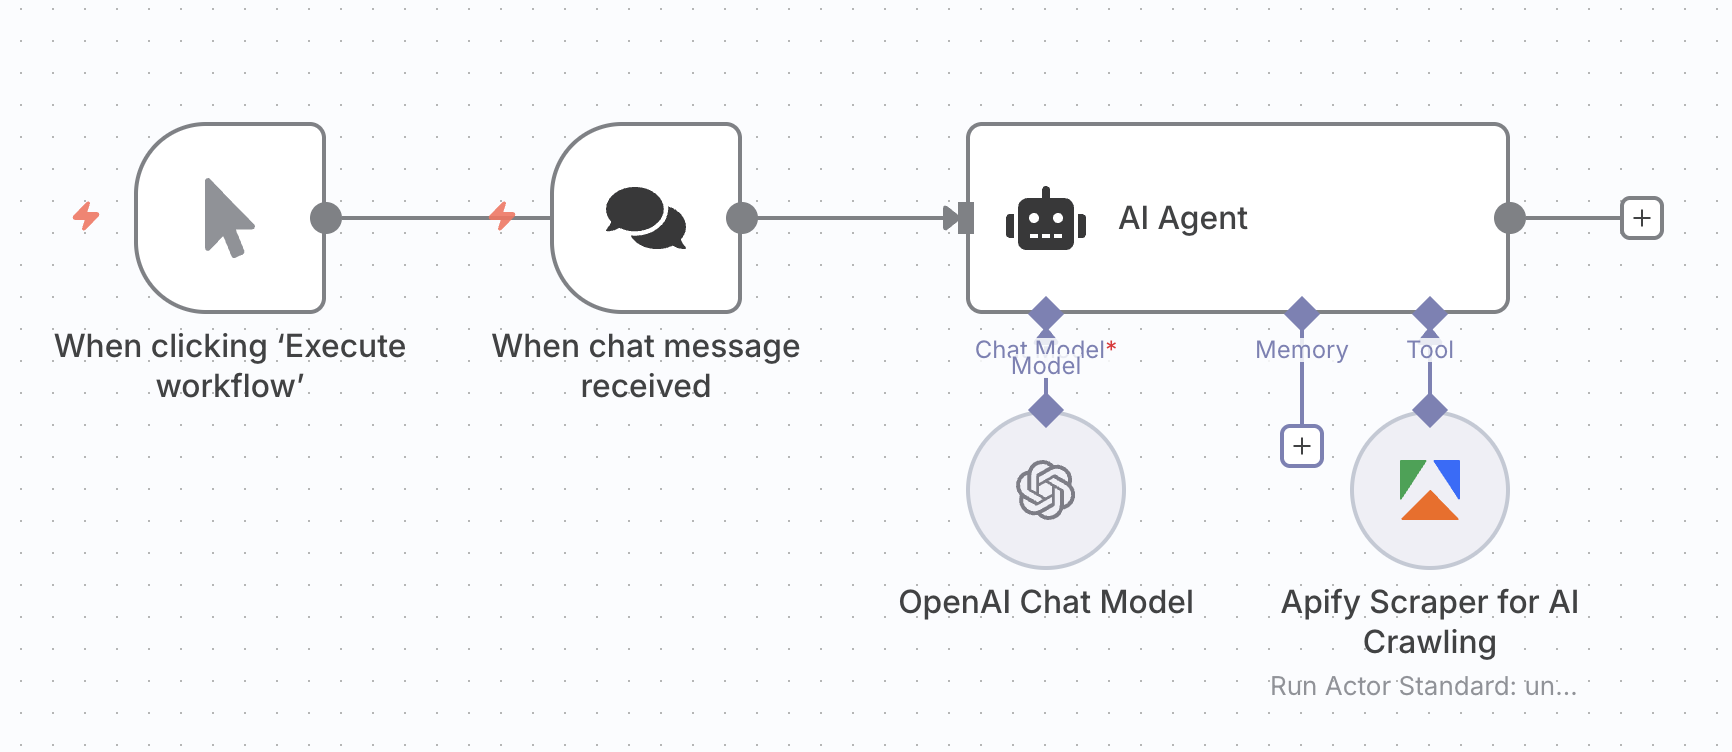
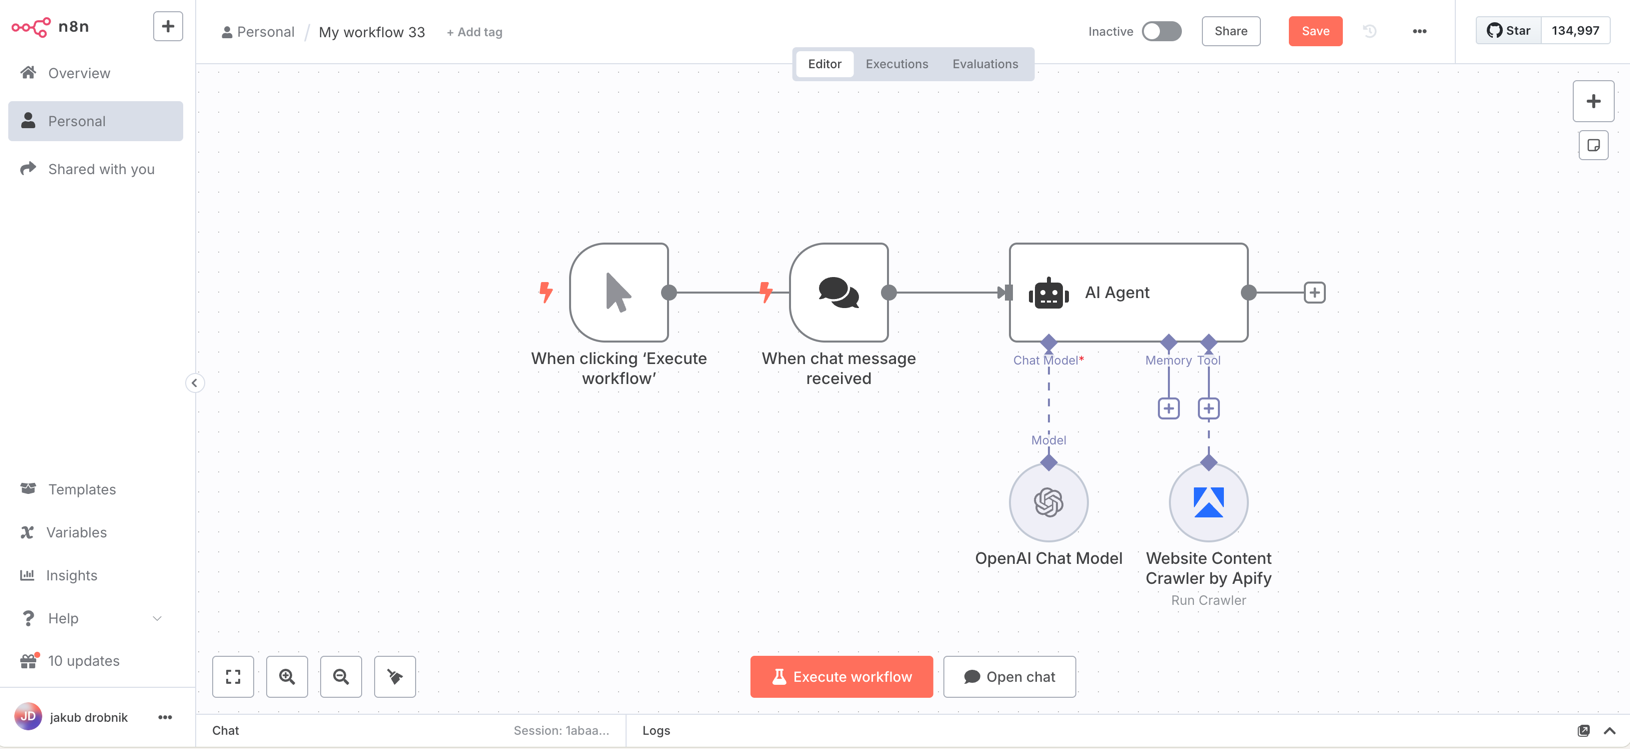
feat: update docs according to n8n WCC changes

diff --git a/sources/platform/integrations/workflows-and-notifications/n8n/website-content-crawler.md b/sources/platform/integrations/workflows-and-notifications/n8n/website-content-crawler.md
@@ -1,15 +1,15 @@
 ---
-title: n8n - AI crawling Actor integration
-description: Learn about AI Crawling scraper modules.
-sidebar_label: AI Crawling
+title: n8n - Website Content Crawler Actor integration
+description: Learn about Website Content Crawler module.
+sidebar_label: Website Content Crawler
 sidebar_position: 6
-slug: /integrations/n8n/ai-crawling
+slug: /integrations/n8n/website-content-crawler
 toc_max_heading_level: 4
 ---
 
-## Apify Scraper for AI Crawling
+## Website Content Crawler By Apify
 
-Apify Scraper for AI Crawling from [Apify](https://apify.com/apify/website-content-crawler) lets you extract text content from websites to feed AI models, LLM applications, vector databases, or Retrieval Augmented Generation (RAG) pipelines. It supports rich formatting using Markdown, cleans the HTML of irrelevant elements, downloads linked files, and integrates with AI ecosystems like LangChain, LlamaIndex, and other LLM frameworks.
+Website Content Crawler from [Apify](https://apify.com/apify/website-content-crawler) lets you extract text content from websites to feed AI models, LLM applications, vector databases, or Retrieval Augmented Generation (RAG) pipelines. It supports rich formatting using Markdown, cleans the HTML of irrelevant elements, downloads linked files, and integrates with AI ecosystems like LangChain, LlamaIndex, and other LLM frameworks.
 
 To use these modules, you need an [API token](https://docs.apify.com/platform/integrations/api#api-token). You can find your token in the [Apify Console](https://console.apify.com/) under **Settings > Integrations**. After connecting, you can automate content extraction at scale and incorporate the results into your AI workflows.
 
@@ -33,21 +33,23 @@ If you're running a self-hosted n8n instance, you can install the Apify communit
 
 ![Apify Install Node](images/install.png)
 
-## Install the Apify Scraper for AI Crawling Node (n8n Cloud)
+## Install the Website Content Crawler by Apify Node (n8n Cloud)
 
 For n8n Cloud users, installation is even simpler and doesn't require manual package entry.  Just search and add the node from the canvas.
 
 1. Go to the **Canvas** and open the **nodes panel**
-1. Search for **Apify Scraper for AI Crawling** in the community node registry
+1. Search for **Website Content Crawler by Apify** in the community node registry
 1. Click **Install node** to add the Apify node to your instance
+
+![Website Content Crawler by Apify on n8n](images/operations.png)
 
 :::note Verified community nodes visibility
 
-On n8n Cloud, instance owners can toggle visibility of verified community nodes in the Cloud Admin Panel. Ensure this setting is enabled to install the Apify Scraper for AI Crawling node.
+On n8n Cloud, instance owners can toggle visibility of verified community nodes in the Cloud Admin Panel. Ensure this setting is enabled to install the Website Content Crawler by Apify node.
 
 :::
 
-## Connect Apify Scraper for AI Crawling (self-hosted)
+## Connect Website Content Crawler by Apify (self-hosted)
 
 1. Create an account at [Apify](https://console.apify.com/). You can sign up using your email, Gmail, or GitHub account.
 
@@ -74,7 +76,7 @@ On n8n Cloud, instance owners can toggle visibility of verified community nodes 
 1. Select **Connect my account** and authorize with your Apify account.
 1. n8n automatically retrieves and stores the OAuth2 tokens.
 
-  ![Apify Auth](../../images/n8n-oauth.png)
+  ![Apify Auth](images/credentials.png)
   
 :::note
 
@@ -84,19 +86,24 @@ For simplicity on n8n Cloud, use the API key method if you prefer manual control
 
 With authentication set up, you can now create workflows that incorporate the Apify node.
 
-## Apify Scraper for AI Crawling modules
+## Website Content Crawler by Apify module
 
-After connecting the app, you can use one of the two modules as native scrapers to extract website content.
+This module provides complete control over the content extraction process, allowing you to fine-tune every aspect of the crawling and transformation pipeline. This module is ideal for complex websites, JavaScript-heavy applications, or when you need precise control over content extraction.
 
-### Standard Settings module
+#### Key features
 
-The Standard Settings module lets you quickly extract content from websites using optimized default settings. This module is ideal for extracting content from blogs, documentation, and knowledge bases to feed into AI models.
+- _Multiple Crawler Options_: Choose between headless browsers (Playwright) or faster HTTP clients (Cheerio)
+- _Custom Content Selection_: Specify exactly which elements to keep or remove
+- _Advanced Navigation Control_: Set crawling depth, scope, and URL patterns
+- _Dynamic Content Handling_: Wait for JavaScript-rendered content to load
+- _Interactive Element Support_: Click expandable sections to reveal hidden content
+- _Multiple Output Formats_: Save content as Markdown, HTML, or plain text
+- _Proxy Configuration_: Use proxies to handle geo-restrictions or avoid IP blocks
+- _Content Transformation Options_: Multiple algorithms for optimal content extraction
 
 #### How it works
 
-The crawler starts with one or more URLs. It then crawls these initial URLs and discovers links to other pages on the same site, which it adds to a queue. The crawler will recursively follow these links as long as they are under the same path as the start URL. You can customize this behavior by defining specific URL patterns for inclusion or exclusion. To ensure efficiency, the crawler automatically skips any duplicate pages it encounters. A variety of settings are available to fine-tune the crawling process, including the crawler type, the maximum number of pages to crawl, the crawl depth, and concurrency.
-
-Once a page is loaded, the Actor processes its HTML to extract high-quality content. It can be configured to wait for dynamic content to load and can scroll the page to trigger the loading of additional content. To access information hidden in interactive sections, the crawler can be set up to expand clickable elements. It also cleans the HTML by removing irrelevant DOM nodes, such as navigation bars, headers, and footers, and can be configured to keep only the content that matches specific CSS selectors. The crawler also handles cookie warnings automatically and transforms the page to extract the main content.
+The Advanced Settings module provides granular control over the entire crawling process. For _Crawler selection_, you can choose from Playwright (Firefox/Chrome) or Cheerio, depending on the complexity of the target website. _URL management_ allows you to define the crawling scope with include and exclude URL patterns. You can also exercise precise _DOM manipulation_ by controlling which HTML elements to keep or remove. To ensure the best results, you can apply specialized algorithms for _Content transformation_ and select from various _Output formatting_ options for better AI model compatibility.
 
 #### Output data
 
@@ -107,6 +114,10 @@ For each crawled web page, you'll receive:
 - _Markdown formatting_: Structured content with headers, lists, links, and other formatting preserved
 - _Crawl information_: Loaded URL, referrer URL, timestamp, HTTP status
 - _Optional file downloads_: PDFs, DOCs, and other linked documents
+- _Multiple format options_: Content in Markdown, HTML, or plain text
+- _Debug information_: Detailed extraction diagnostics and snapshots
+- _HTML transformations_: Results from different content extraction algorithms
+- _File storage options_: Flexible storage for HTML, screenshots, or downloaded files
 
 ```json title="Sample output (shortened)"
 {
@@ -129,39 +140,11 @@ For each crawled web page, you'll receive:
 }
 ```
 
-### Advanced Settings module
-
-The Advanced Settings module provides complete control over the content extraction process, allowing you to fine-tune every aspect of the crawling and transformation pipeline. This module is ideal for complex websites, JavaScript-heavy applications, or when you need precise control over content extraction.
-
-#### Key features
-
-- _Multiple Crawler Options_: Choose between headless browsers (Playwright) or faster HTTP clients (Cheerio)
-- _Custom Content Selection_: Specify exactly which elements to keep or remove
-- _Advanced Navigation Control_: Set crawling depth, scope, and URL patterns
-- _Dynamic Content Handling_: Wait for JavaScript-rendered content to load
-- _Interactive Element Support_: Click expandable sections to reveal hidden content
-- _Multiple Output Formats_: Save content as Markdown, HTML, or plain text
-- _Proxy Configuration_: Use proxies to handle geo-restrictions or avoid IP blocks
-- _Content Transformation Options_: Multiple algorithms for optimal content extraction
-
-#### How it works
-
-The Advanced Settings module provides granular control over the entire crawling process. For _Crawler selection_, you can choose from Playwright (Firefox/Chrome) or Cheerio, depending on the complexity of the target website. _URL management_ allows you to define the crawling scope with include and exclude URL patterns. You can also exercise precise _DOM manipulation_ by controlling which HTML elements to keep or remove. To ensure the best results, you can apply specialized algorithms for _Content transformation_ and select from various _Output formatting_ options for better AI model compatibility.
+You can access any of thousands of our scrapers on Apify Store by using the [general Apify app](https://n8n.io/integrations/apify).
 
 #### Configuration options
 
-Advanced Settings offers a wide range of configuration options. You can select the _Crawler type_ by choosing the rendering engine (browser or HTTP client) and the _Content extraction algorithm_ from multiple HTML transformers. _Element selectors_ allow you to specify which elements to keep, remove, or click, while _URL patterns_ let you define inclusion and exclusion rules with glob syntax. You can also set _Crawling parameters_ like concurrency, depth, timeouts, and retries. For robust crawling, you can configure _Proxy configuration_ settings and select from various _Output options_ for content formats and storage.
-
-#### Output data
-
-In addition to the standard output fields, this module provides:
-
-- _Multiple format options_: Content in Markdown, HTML, or plain text
-- _Debug information_: Detailed extraction diagnostics and snapshots
-- _HTML transformations_: Results from different content extraction algorithms
-- _File storage options_: Flexible storage for HTML, screenshots, or downloaded files
-
-You can access any of thousands of our scrapers on Apify Store by using the [general Apify app](https://n8n.io/integrations/apify).
+You can select the _Crawler type_ by choosing the rendering engine (browser or HTTP client) and the _Content extraction algorithm_ from multiple HTML transformers. _Element selectors_ allow you to specify which elements to keep, remove, or click, while _URL patterns_ let you define inclusion and exclusion rules with glob syntax. You can also set _Crawling parameters_ like concurrency, depth, timeouts, and retries. For robust crawling, you can configure _Proxy configuration_ settings and select from various _Output options_ for content formats and storage.
 
 ## Usage as an AI Agent Tool
 
@@ -173,7 +156,7 @@ You can setup Apify's Scraper for AI Crawling node as a tool for your AI Agents.
 
 In the Website Content Crawler module you can set the **Start URLs** to be filled in by your AI Agent dynamically. This allows the Agent to decide on which pages to scrape off the internet.
 
-We recommend using the Advanced Settings module with your AI Agent. Two key parameters to set are **Max crawling depth** and **Max pages**. Remember that the scraping results are passed into the AI Agent’s context, so using smaller values helps stay within context limits.
+Two key parameters to configure for optimized AI Agent usage are **Max crawling depth** and **Max pages**. Remember that the scraping results are passed into the AI Agent’s context, so using smaller values helps stay within context limits.
 
 ![Config Apify](./images/config.png)
 
